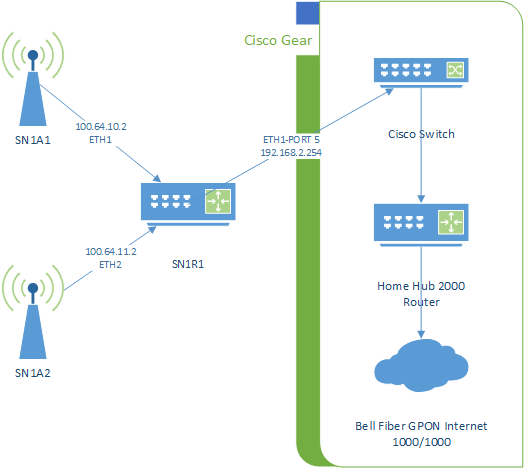
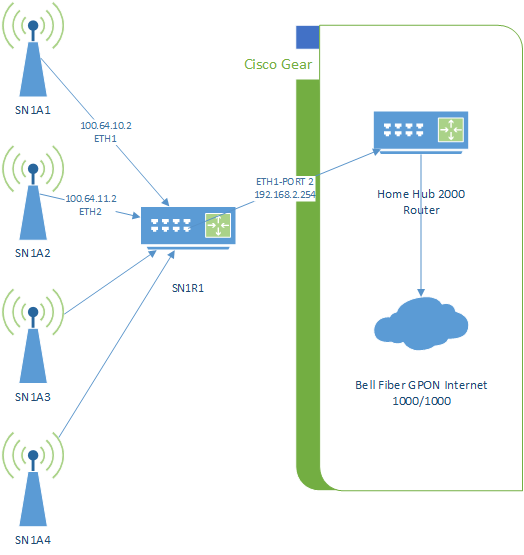
Woolner - antenna 3 and 4 (#24)
* Added antenna 3 and 4 to super node 1

diff --git a/src/network/supernode1.md b/src/network/supernode1.md
@@ -26,6 +26,12 @@ Antenna 2 is a Ubiquiti LAP-120 mounted on the south arm of the building, on the
 
 ![image](images/supernode1-hardware-antenna2.jpg)
 
+### Antenna 3 and 4
+
+Antenna 3 and 4 are Ubiquiti LAP-120 devices mounted on the north-east arm of the building. Antenna 3 is facing north-east and antenna 4 is facing north.
+
+![image](images/supernode1-hardware-antenna3and4.jpg)
+
 ### Router 1
 
 Router 1 is a [Ubiquiti EdgeRouter X-SFP](https://www.ui.com/edgemax/edgerouter-x-sfp/) mounted inside the Cisco cabinet in the ballast room. It is connected to the exit node over a L2TP tunnel using UDP.
